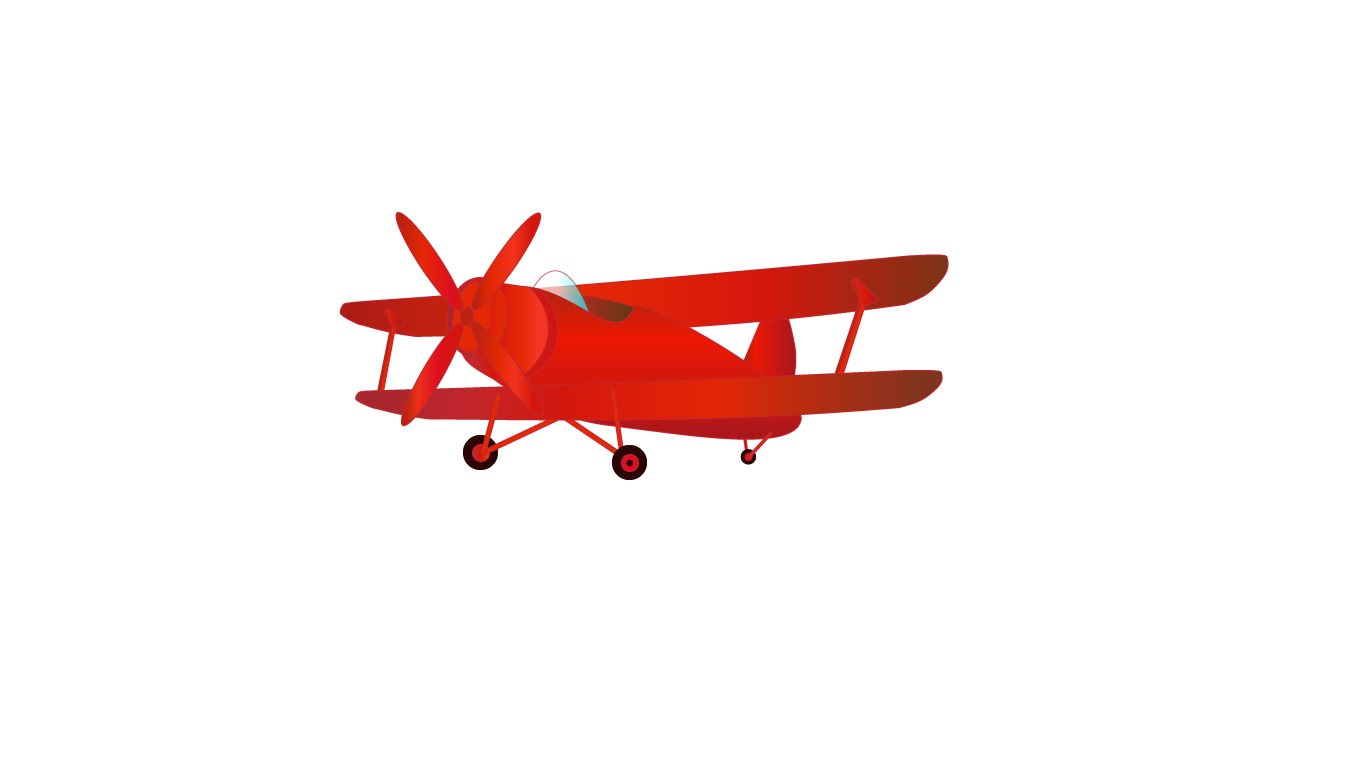
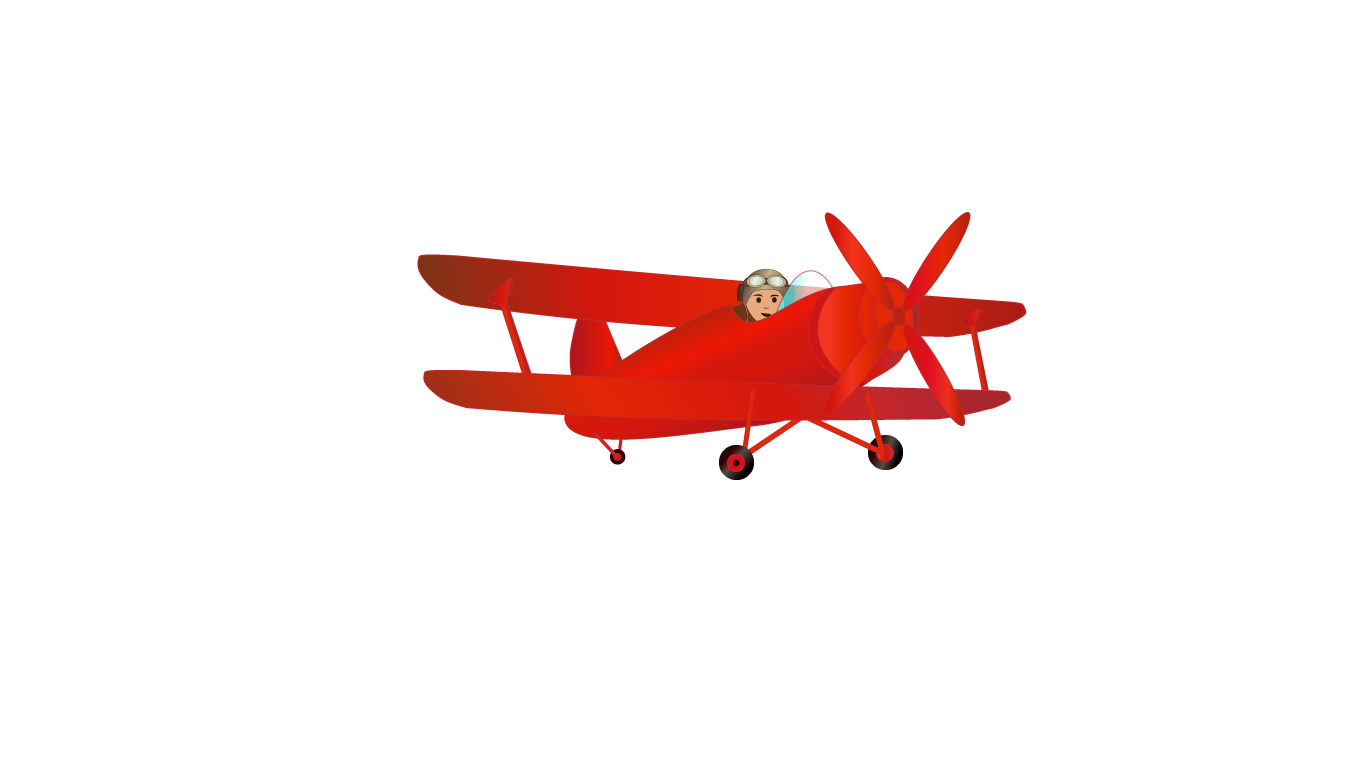
update movimento aviao

Changed region(s): [[0.246, 0.2812, 0.7687, 0.625]]

diff --git a/css/homepage.css b/css/homepage.css
@@ -33,7 +33,7 @@ h2 {
 /* Avião */
 .aviao {
     position: absolute;
-    width: 10vw;  /* Começa pequeno */
+    width: 10vw;  
     height: auto;
     animation: moveAviao 2s linear forwards;
     z-index: 20;
@@ -43,44 +43,30 @@ h2 {
 @keyframes moveAviao {
     0% {
         top: -10%;
-        right: 40%;
-        transform: rotate(0deg) scale(1); /* Começa pequeno e em movimento */
+        right: 20%;
+        transform: rotate(-45deg) scale(0);
     }
-    35% {
+
+    25% {
         top: 15%; 
         right: 20%;
-        transform: rotate(90deg) scale(4); /* Aumenta de tamanho e gira */
+        transform: rotate(-90deg) scale(2.5); 
     }
 
     50% {
         top: 40%; 
         right: 20%;
-        transform: rotate(180deg) scale(6); /* Aumenta de tamanho e gira */
+        transform: rotate(-180deg) scale(5); 
     }
 
     100% {
         top: 70%;
         right: 40%;
-        transform: rotate(380deg) scale(10); /* Chega maior e gira até parar */
+        transform: rotate(-380deg) scale(10); 
     }
 }
 
 /* Impede o overflow da animação fora da tela */
 body {
     overflow: hidden;
-}
-
-/* Media queries para ajustes em telas menores */
-@media (max-width: 768px) {
-    h1 {
-        font-size: 5vw; /* Aumenta o tamanho da fonte em telas menores */
-        top: 3%; /* Ajusta a posição vertical para telas menores */
-    }
-}
-
-@media (max-width: 480px) {
-    h1 {
-        font-size: 4vw; /* Aumenta ainda mais o tamanho da fonte para telas muito pequenas */
-        top: 3%; /* Ajuste fino da posição */
-    }
 }

diff --git a/homepage.html b/homepage.html
@@ -21,7 +21,7 @@
 <body>
   <main class="main">
     <img src="imagens/deserto-1.png" alt="Background" class="deserto">
-    <img id="aviao" src="imagens/aviao2 invert.PNG" alt="Aviao" class="aviao">
+    <img id="aviao" src="imagens/aviao.png" alt="Aviao" class="aviao">
 
     <h1>O Principezinho</h1>
     <h2>Ajuda o aviador a regressar a casa!</h2>
